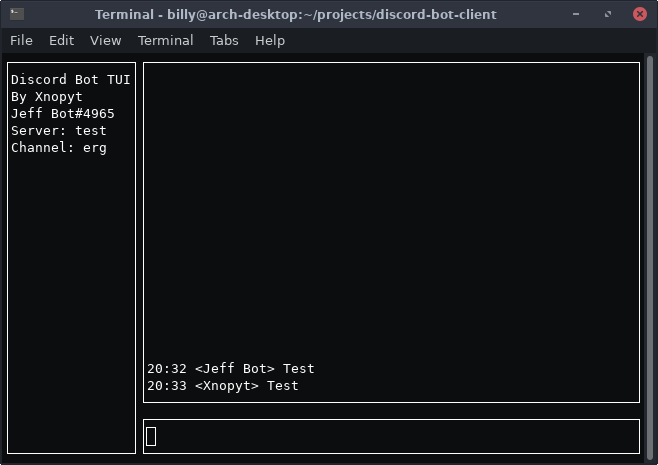
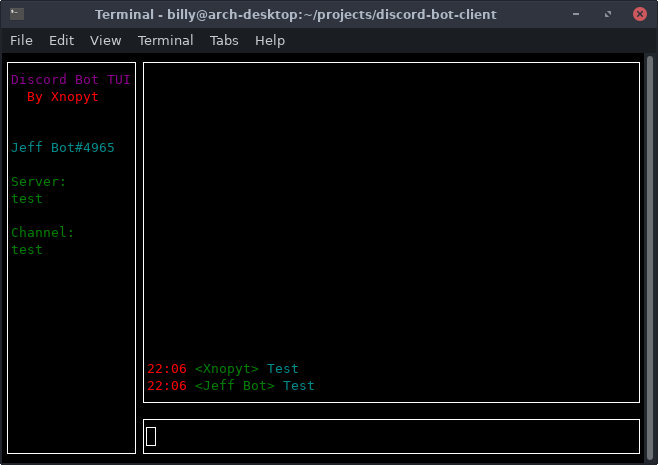
Add colours

diff --git a/client.go b/client.go
@@ -21,6 +21,7 @@ var history *tui.Box
 var running = false
 var cchan string
 var cguild string
+var t *tui.Theme
 
 func init() {
 	clear = make(map[string]func())
@@ -34,6 +35,14 @@ func init() {
 		cmd.Stdout = os.Stdout
 		cmd.Run()
 	}
+	t = tui.NewTheme()
+	t.SetStyle("normal", tui.Style{Bg: tui.ColorBlack, Fg: tui.ColorWhite})
+	t.SetStyle("label.magenta", tui.Style{Bg: tui.ColorBlack, Fg: tui.ColorMagenta})
+	t.SetStyle("label.red", tui.Style{Bg: tui.ColorBlack, Fg: tui.ColorRed})
+	t.SetStyle("label.green", tui.Style{Bg: tui.ColorBlack, Fg: tui.ColorGreen})
+	t.SetStyle("input.green", tui.Style{Bg: tui.ColorBlack, Fg: tui.ColorGreen})
+	t.SetStyle("label.cyan", tui.Style{Bg: tui.ColorBlack, Fg: tui.ColorCyan})
+	t.SetStyle("label.yellow", tui.Style{Bg: tui.ColorBlack, Fg: tui.ColorYellow})
 }
 
 func callClear() {
@@ -116,10 +125,16 @@ func recvMsg(s *discordgo.Session, m *discordgo.MessageCreate) {
 			}
 			ctime = strconv.Itoa(hr) + ":" + min
 		}
+		l1 := tui.NewLabel(ctime)
+		l1.SetStyleName("red")
+		l2 := tui.NewLabel(fmt.Sprintf("<%s>", cname))
+		l2.SetStyleName("green")
+		l3 := tui.NewLabel(m.Content)
+		l3.SetStyleName("cyan")
 		history.Append(tui.NewHBox(
-			tui.NewLabel(ctime),
-			tui.NewPadder(1, 0, tui.NewLabel(fmt.Sprintf("<%s>", cname))),
-			tui.NewLabel(m.Content),
+			l1,
+			tui.NewPadder(1, 0, l2),
+			l3,
 			tui.NewSpacer(),
 		))
 		ui.Repaint()
@@ -191,12 +206,22 @@ func run(s *discordgo.Session) {
 	channel := txtChannels[selc]
 	callClear()
 	color.Magenta.Println("Now Loading...")
+	l1 := tui.NewLabel("Discord Bot TUI")
+	l1.SetStyleName("magenta")
+	l2 := tui.NewLabel("  By Xnopyt\n\n")
+	l2.SetStyleName("red")
+	l3 := tui.NewLabel(s.State.User.Username + "#" + s.State.User.Discriminator)
+	l3.SetStyleName("cyan")
+	l4 := tui.NewLabel("\nServer:\n" + guild.Name)
+	l4.SetStyleName("green")
+	l5 := tui.NewLabel("\nChannel:\n" + channel.Name)
+	l5.SetStyleName("green")
 	sidebar := tui.NewVBox(
-		tui.NewLabel("Discord Bot TUI"),
-		tui.NewLabel("  By Xnopyt\n\n"),
-		tui.NewLabel(s.State.User.Username+"#"+s.State.User.Discriminator),
-		tui.NewLabel("\nServer:\n"+guild.Name),
-		tui.NewLabel("\nChannel:\n"+channel.Name),
+		l1,
+		l2,
+		l3,
+		l4,
+		l5,
 		tui.NewSpacer(),
 	)
 	sidebar.SetBorder(true)
@@ -234,10 +259,16 @@ func run(s *discordgo.Session) {
 			}
 			ctime = strconv.Itoa(hr) + ":" + min
 		}
+		l6 := tui.NewLabel(ctime)
+		l6.SetStyleName("red")
+		l7 := tui.NewLabel(fmt.Sprintf("<%s>", cname))
+		l7.SetStyleName("green")
+		l8 := tui.NewLabel(v.Content)
+		l8.SetStyleName("cyan")
 		history.Append(tui.NewHBox(
-			tui.NewLabel(ctime),
-			tui.NewPadder(1, 0, tui.NewLabel(fmt.Sprintf("<%s>", cname))),
-			tui.NewLabel(v.Content),
+			l6,
+			tui.NewPadder(1, 0, l7),
+			l8,
 			tui.NewSpacer(),
 		))
 	}
@@ -270,6 +301,8 @@ func run(s *discordgo.Session) {
 	if err != nil {
 		log.Fatal(err)
 	}
+
+	ui.SetTheme(t)
 
 	ui.SetKeybinding("Esc", func() {
 		ui.Quit()
